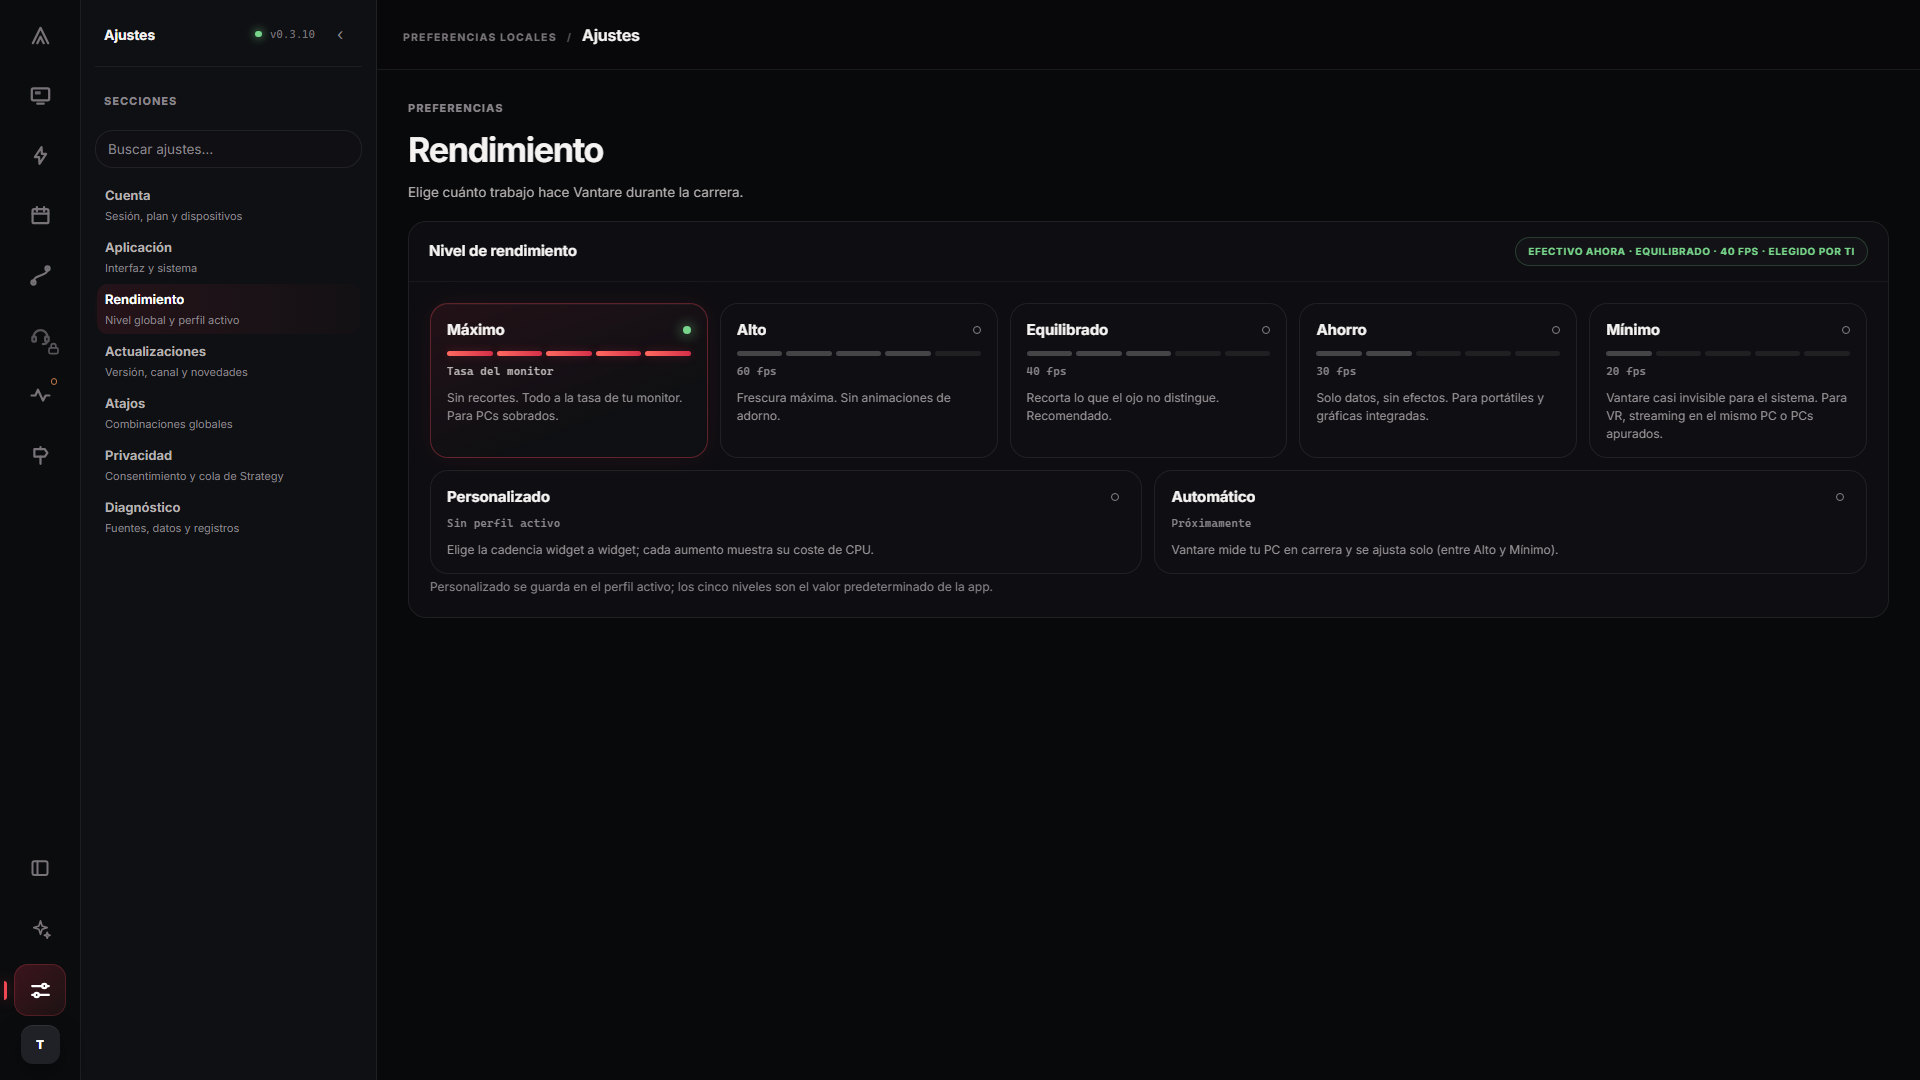
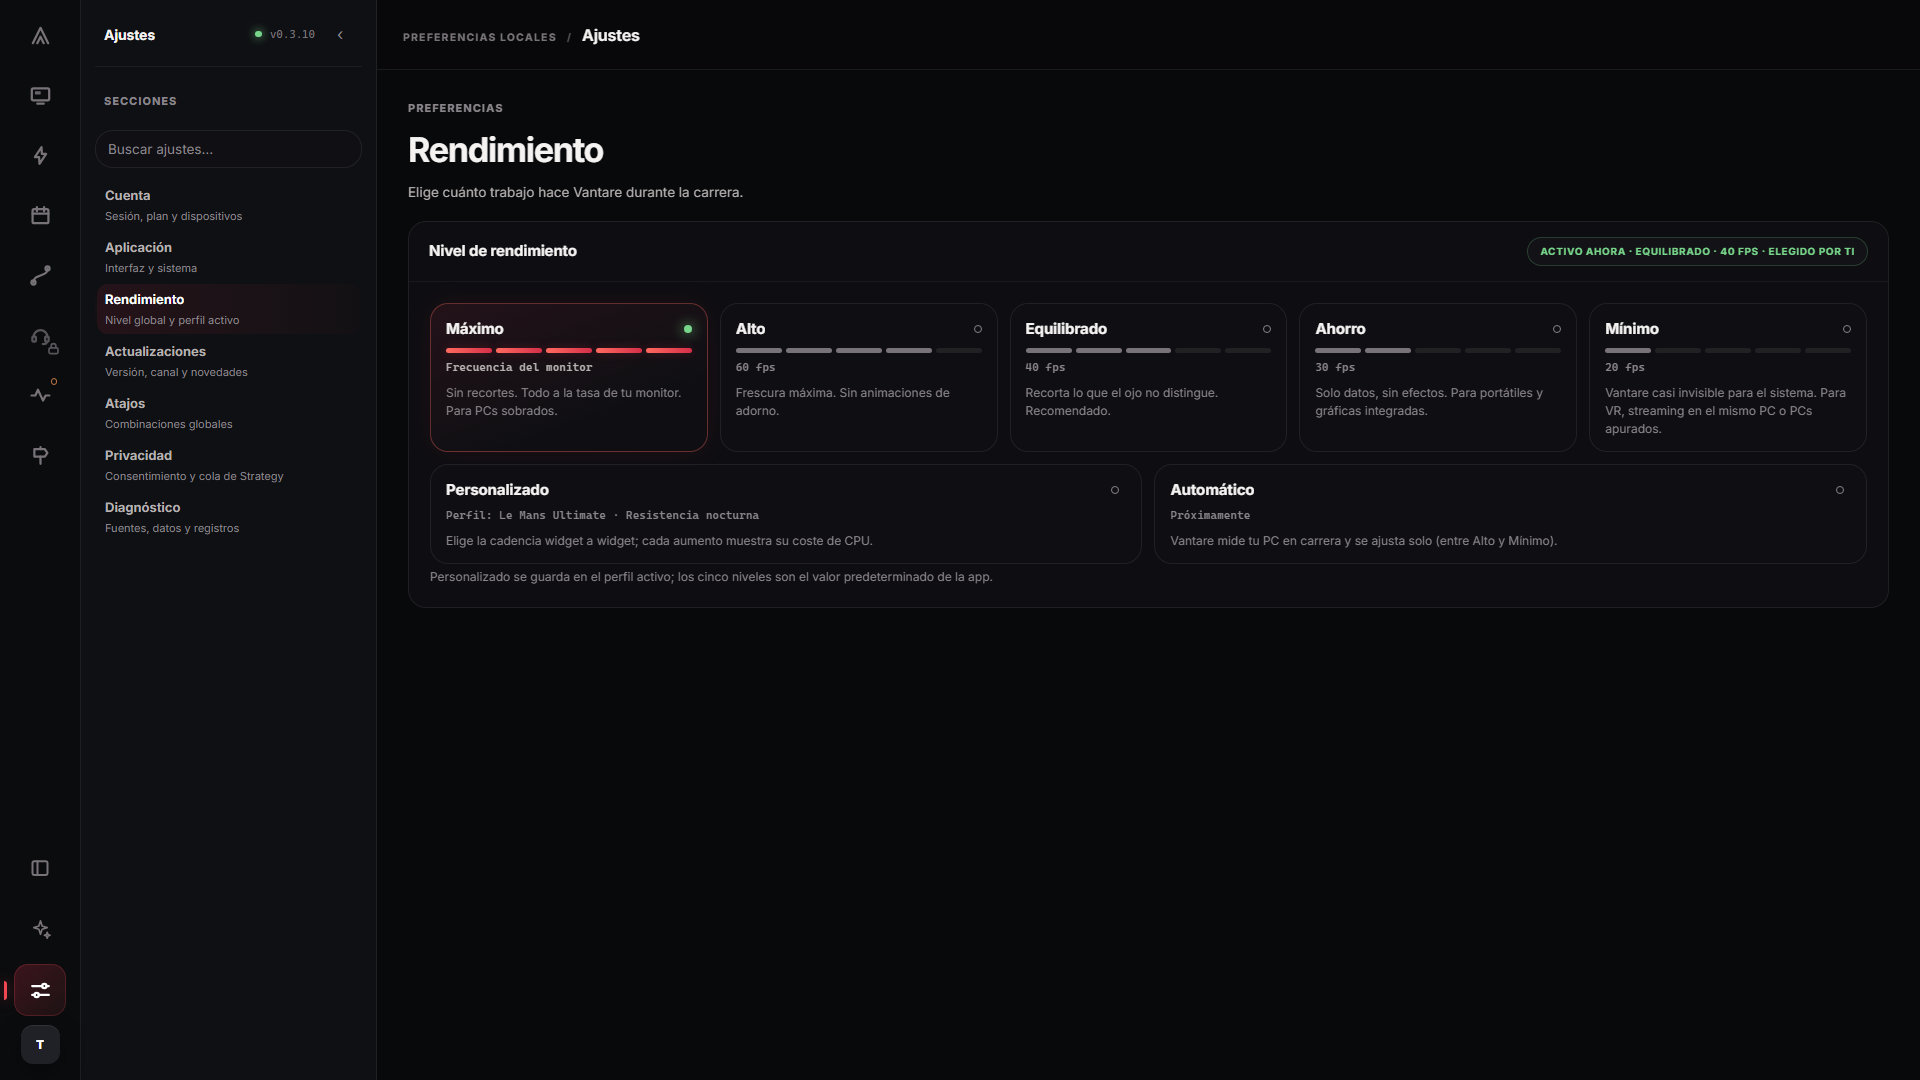
fix(settings): Rendimiento por tokens, foco Orbit y anchos medios (ISA-943)
Colores del bloque solo con tokens (color-mix sobre --orbit-carmine/coral), foco
visible del kit en las tarjetas, cabeceras de tabla a --orbit-ink-3 10,5 px, tarjetas
más compactas y, a <=1280 px, el panel entero hace scroll para que la tabla de
Personalizado no colapse. El script visual siembra un perfil activo en Rendimiento,
abre Personalizado y exige tabla utilizable a 1920/1440/1280/1024. Textos más
naturales (Activo ahora, Frecuencia del monitor).

diff --git a/vantare-v2/frontend/src/styles/orbit-settings.css b/vantare-v2/frontend/src/styles/orbit-settings.css
@@ -625,7 +625,9 @@
 /* ---------------------------------------------------------- RENDIMIENTO */
 /* Escalera de niveles (`Máximo → Mínimo`) en una sola fila con su medidor de
    coste; Personalizado y Automático ocupan la fila siguiente a media anchura.
-   El estado efectivo vive en la cabecera de la superficie, no en un aviso. */
+   El estado efectivo vive en la cabecera de la superficie, no en un aviso.
+   Todo el color deriva de tokens: los tintes carmín se obtienen con
+   `color-mix` sobre `--orbit-carmine`/`--orbit-coral`. */
 
 .orbit-set-perf {
   display: flex;
@@ -635,6 +637,8 @@
   min-height: 0;
 }
 
+/* La primera superficie mide lo que miden sus tarjetas; la tabla de
+   Personalizado se queda con el resto y hace scroll dentro. */
 .orbit-set-perf > .orbit-surface:first-child {
   flex: none;
 }
@@ -650,9 +654,9 @@
   position: relative;
   display: flex;
   flex-direction: column;
-  gap: 8px;
+  gap: 7px;
   min-width: 0;
-  padding: 15px 16px 14px;
+  padding: 14px 15px 13px;
   border: 1px solid var(--orbit-line);
   border-radius: var(--orbit-radius);
   background: var(--orbit-panel-bg);
@@ -677,10 +681,17 @@
   transform: translateY(-1px);
 }
 
+/* Foco Orbit (`08 · a11y`): mismo contorno coral que el kit. */
+.orbit-set-perf__card:focus-visible {
+  outline: 2px solid var(--orbit-coral);
+  outline-offset: 2px;
+}
+
 .orbit-set-perf__card[data-state="on"] {
-  border-color: rgba(240, 71, 85, 0.35);
-  background: linear-gradient(160deg, rgba(213, 47, 73, 0.1), var(--orbit-panel-bg) 70%);
-  box-shadow: 0 0 28px rgba(213, 47, 73, 0.08), inset 0 1px 0 rgba(255, 255, 255, 0.04);
+  border-color: color-mix(in srgb, var(--orbit-coral) 35%, transparent);
+  background: linear-gradient(160deg, color-mix(in srgb, var(--orbit-carmine) 10%, transparent), transparent 70%),
+    var(--orbit-panel-bg);
+  box-shadow: 0 0 28px color-mix(in srgb, var(--orbit-carmine) 8%, transparent);
 }
 
 .orbit-set-perf__card[aria-disabled="true"] {
@@ -710,23 +721,22 @@
   display: flex;
   gap: 4px;
   height: 5px;
-  margin-top: 2px;
+  margin-top: 1px;
 }
 
 .orbit-set-perf__meter i {
   flex: 1;
   border-radius: 3px;
-  background: rgba(255, 255, 255, 0.07);
+  background: var(--orbit-line);
 }
 
 .orbit-set-perf__meter i[data-on] {
-  background: linear-gradient(90deg, var(--orbit-coral), var(--orbit-carmine));
-  box-shadow: 0 0 10px rgba(213, 47, 73, 0.28);
+  background: var(--orbit-ink-4);
 }
 
-.orbit-set-perf__card:not([data-state="on"]) .orbit-set-perf__meter i[data-on] {
-  background: rgba(255, 255, 255, 0.22);
-  box-shadow: none;
+.orbit-set-perf__card[data-state="on"] .orbit-set-perf__meter i[data-on] {
+  background: linear-gradient(90deg, var(--orbit-coral), var(--orbit-carmine));
+  box-shadow: 0 0 10px color-mix(in srgb, var(--orbit-carmine) 28%, transparent);
 }
 
 .orbit-set-perf__rate {
@@ -742,7 +752,7 @@
 }
 
 .orbit-set-perf__copy {
-  color: #9a9598;
+  color: var(--orbit-ink-3);
   font-size: 12px;
   line-height: 1.5;
 }
@@ -775,8 +785,8 @@
 .orbit-set-perf__table thead th {
   padding: 0 0 10px;
   border-bottom: 1px solid var(--orbit-line);
-  color: var(--orbit-ink-4);
-  font-size: 10px;
+  color: var(--orbit-ink-3);
+  font-size: 10.5px;
   font-weight: 700;
   letter-spacing: 0.08em;
   text-align: left;
@@ -815,7 +825,22 @@
   font-size: 12px;
 }
 
+/* Anchos medios: las tarjetas pasan a dos filas y la vista deja de repartir la
+   altura entre superficies; el panel entero hace scroll y la tabla conserva su
+   altura natural en vez de colapsar. */
 @media (max-width: 1280px) {
+  .orbit-set-perf {
+    flex: none;
+  }
+
+  .orbit-set-perf > .orbit-surface {
+    flex: none;
+  }
+
+  .orbit-set-perf > .orbit-surface--fill > .orbit-surface__body {
+    overflow: visible;
+  }
+
   .orbit-set-perf__card--level {
     grid-column: span 5;
   }

diff --git a/vantare-v2/frontend/src/i18n/locales/settings-orbit/es.ts b/vantare-v2/frontend/src/i18n/locales/settings-orbit/es.ts
@@ -34,8 +34,8 @@ export const settingsOrbitEs: Record<string, string> = {
   "settings.performance.inherit": "Usar nivel",
   "settings.performance.dirty": "Solo al cambiar",
   "settings.performance.noProfile": "Activa un perfil para editar sus overrides.",
-  "settings.performance.effective": "Efectivo ahora",
-  "settings.performance.rate1": "Tasa del monitor",
+  "settings.performance.effective": "Activo ahora",
+  "settings.performance.rate1": "Frecuencia del monitor",
   "settings.performance.rate2": "60 fps",
   "settings.performance.rate3": "40 fps",
   "settings.performance.rate4": "30 fps",

diff --git a/vantare-v2/frontend/src/i18n/locales/settings-orbit/pt.ts b/vantare-v2/frontend/src/i18n/locales/settings-orbit/pt.ts
@@ -30,8 +30,8 @@ export const settingsOrbitPt: Record<string, string> = {
   "settings.performance.inherit": "Usar nível",
   "settings.performance.dirty": "Só ao mudar",
   "settings.performance.noProfile": "Ativa um perfil para editar os overrides.",
-  "settings.performance.effective": "Efetivo agora",
-  "settings.performance.rate1": "Taxa do monitor",
+  "settings.performance.effective": "Ativo agora",
+  "settings.performance.rate1": "Frequência do monitor",
   "settings.performance.rate2": "60 fps",
   "settings.performance.rate3": "40 fps",
   "settings.performance.rate4": "30 fps",

diff --git a/vantare-v2/frontend/src/i18n/locales/settings-orbit/en.ts b/vantare-v2/frontend/src/i18n/locales/settings-orbit/en.ts
@@ -30,8 +30,8 @@ export const settingsOrbitEn: Record<string, string> = {
   "settings.performance.inherit": "Use level",
   "settings.performance.dirty": "On change only",
   "settings.performance.noProfile": "Activate a profile to edit its overrides.",
-  "settings.performance.effective": "Effective now",
-  "settings.performance.rate1": "Monitor rate",
+  "settings.performance.effective": "Active now",
+  "settings.performance.rate1": "Monitor refresh rate",
   "settings.performance.rate2": "60 fps",
   "settings.performance.rate3": "40 fps",
   "settings.performance.rate4": "30 fps",

diff --git a/vantare-v2/frontend/src/i18n/locales/settings-orbit/it.ts b/vantare-v2/frontend/src/i18n/locales/settings-orbit/it.ts
@@ -30,7 +30,7 @@ export const settingsOrbitIt: Record<string, string> = {
   "settings.performance.inherit": "Usa livello",
   "settings.performance.dirty": "Solo al cambiamento",
   "settings.performance.noProfile": "Attiva un profilo per modificarne gli override.",
-  "settings.performance.effective": "Effettivo ora",
+  "settings.performance.effective": "Attivo ora",
   "settings.performance.rate1": "Frequenza del monitor",
   "settings.performance.rate2": "60 fps",
   "settings.performance.rate3": "40 fps",
